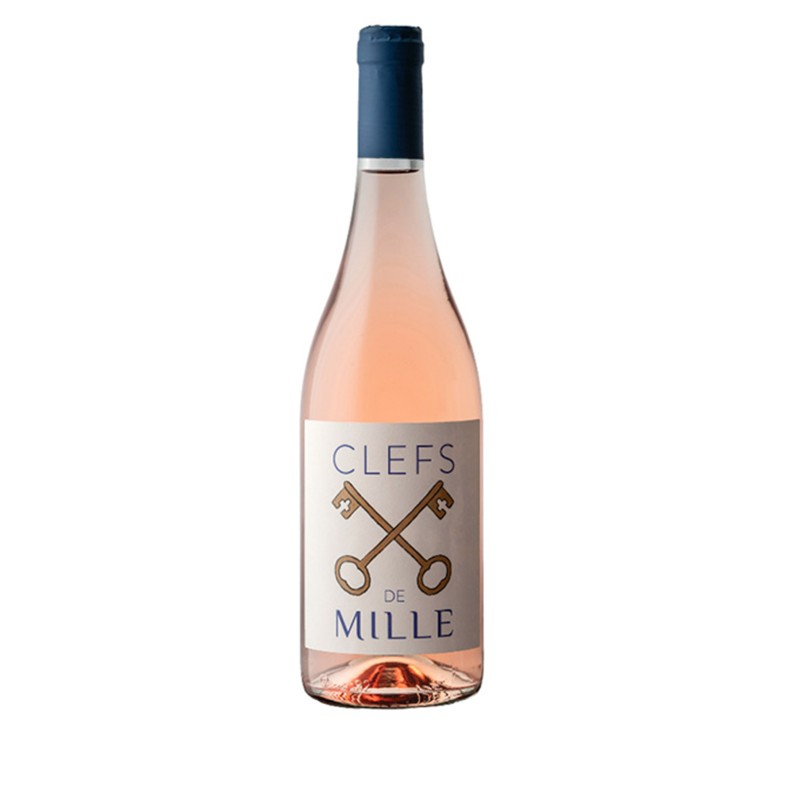
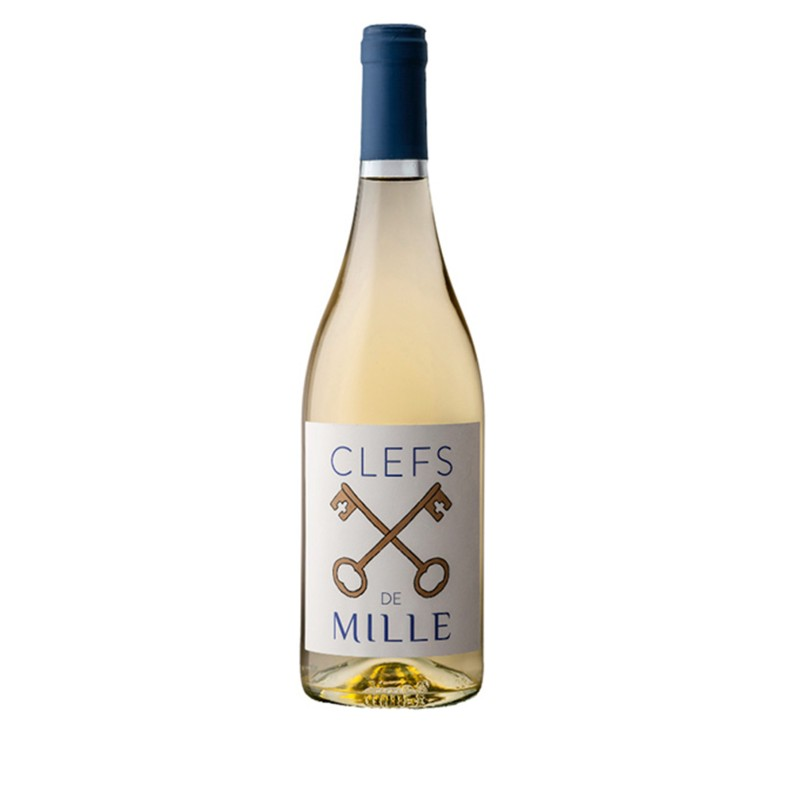
Fix Les Clefs de Mille wine images and add missing Rouge wine
Issues fixed:
- Les Clefs de Mille Blanc displayed image of Rosé wine
- Les Clefs de Mille Rosé displayed image of Rouge wine
- Les Clefs de Mille Rouge was missing from wine database

Changes:
- Downloaded correct images from château-de-mille.com for all three wines
- Fixed image mapping: (1).jpg = Blanc, (2).jpg = Rouge, .jpg = Rosé
- Added new wine entry: Les Clefs de Mille Rouge (Grenache/Syrah, €12)
- All three Clefs de Mille wines now display correct bottle images

The wine catalog now has 65 wines total (was 64).

🤖 Generated with [Claude Code](https://claude.com/claude-code)

Changed region(s): [[0.375, 0.0312, 0.625, 0.9062]]

diff --git a/src/data/wines.ts b/src/data/wines.ts
@@ -1153,6 +1153,62 @@ export const wines: Wine[] = [
     ]
   },
   {
+    id: 'mille-clefs-rouge',
+    name: 'Les Clefs de Mille Rouge',
+    producer: 'Château de Mille',
+    color: 'red',
+    appellation: 'Luberon AOP',
+    imageUrl: '/images/wines/clefs-de-mille-rouge.jpg',
+    grapes: ['Grenache', 'Syrah'],
+    description: 'Aromatisk og frisk rødvin fra Château de Mille. Elegant basis-vin med delikate røde bær og provencalske urter. Perfekt hverdagsvin.',
+    foodPairings: [
+      { dish: 'Grillet kylling', description: 'Lett rødvin til hvitt kjøtt' },
+      { dish: 'Pizza med salami', description: 'Fruktighet balanserer den salte salamien' },
+      { dish: 'Pasta med tomatsaus', description: 'Klassisk italiensk kombinasjon' },
+      { dish: 'Charcuterie', description: 'Perfekt til provencalsk pølse og terrine' }
+    ],
+    purchaseLocations: [
+      {
+        type: 'chateau',
+        name: 'Château de Mille',
+        address: '2650 Route de Bonnieux',
+        city: 'Apt',
+        postalCode: '84400',
+        phone: '+33 4 90 74 11 94',
+        email: 'contact@chateaudemille.fr',
+        website: 'https://www.chateaudemille.fr',
+        coordinates: {
+          lat: 43.866744,
+          lng: 5.352626
+        },
+        openingHours: {
+          monday: '10:00-12:00, 14:00-18:00',
+          tuesday: '10:00-12:00, 14:00-18:00',
+          wednesday: '10:00-12:00, 14:00-18:00',
+          thursday: '10:00-12:00, 14:00-18:00',
+          friday: '10:00-12:00, 14:00-18:00',
+          saturday: '10:00-12:00, 14:00-18:00',
+          sunday: 'Stengt',
+          notes: 'Sommeråpningstider (juli-august): Utvidet til 19:00'
+        },
+        priceRange: '€10-15',
+        notes: 'Gratis vinsmaking. Omvisning på forespørsel. Vingården ligger ved foten av Luberon-fjellet med spektakulær utsikt.',
+        bookingRequired: false,
+        tastingAvailable: true
+      }
+    ],
+    vintages: [
+      {
+        year: 2022,
+        alcoholContent: 13.0,
+        tastingNotes: ['Røde bær', 'Kirsebær', 'Provencalske urter', 'Pepperkrydder'],
+        storageRecommendation: 'drink-now',
+        optimalDrinkingWindow: { start: 0, end: 3 },
+        price: 12
+      }
+    ]
+  },
+  {
     id: 'mille-blanc',
     name: 'Château de Mille Blanc',
     producer: 'Château de Mille',
